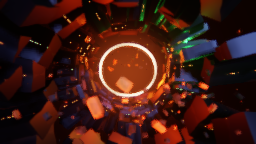
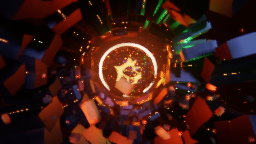
T1349b: a fractured sphere inside the ring, and life in the swarm
Owner: 'we also want a sphere inside of it … have that do things. Stuff looks
quite static. we want some shape shifting'. E75's shell kernel centred at the
origin (radius 3.3, reach 1.7) over an emissive heart (sphereGridKernel): the
tail lane opens the fragments, the beat kicks them and widens the fissures, the
heart pulses through the punch. Tier radii breathe per sector, the lit stations
chase along the bodies, the giants drift in depth, the shards stream faster.
Dawn claim: the core opens by more than a unit across the lanes while hulls,
giants and shards stay byte-equal. Digest 5c359b80e0c1f1b3, kernel count 129,
9.4 ms/frame headless at 720p.

diff --git a/src/examples/documents/crucible.ts b/src/examples/documents/crucible.ts
@@ -4,7 +4,8 @@ import { document, edge, expressionSlot, graph, node as buildNode, settings } fr
 import { SHOWCASE_BEAT, SHOWCASE_BEAT_FILE, SHOWCASE_BEAT_OFFSET_SECONDS } from "../build-showcase-beat.ts";
 import { FXAA_WGSL } from "../shaders/fxaa.wgsl.ts";
 import { RESONANCE_BLOOM_WGSL, RESONANCE_DOF_WGSL } from "../shaders/resonance.wgsl.ts";
-import { HALO_CAPACITY, HALO_COLUMNS, HALO_KERNEL, HALO_ROWS, INSTALLATION_ATTRIBUTES } from "../shaders/resonance-installations.ts";
+import { HALO_CAPACITY, HALO_COLUMNS, HALO_KERNEL, HALO_ROWS, INSTALLATION_ATTRIBUTES, sphereGridKernel } from "../shaders/resonance-installations.ts";
+import { SHELL_ATTRIBUTES, SHELL_CAPACITY, SHELL_COLUMNS, SHELL_KERNEL, SHELL_ROWS } from "../shaders/resonance-shell.ts";
 import {
   CRUCIBLE_HAZE_WGSL,
   SHARD_CAPACITY,
@@ -36,7 +37,8 @@ import {
  *   clip1 ─ band109x1 (Select `band109`) ─ beatrange1 (Range 0.38..0.60, clamp) ─ beat1 (Beat)
  *   clip1 ─ band968x1 (Select `band968`) ─ tailrange1 (Range 0.40..0.58, clamp) ─ tail1 (Tail 1.4 s)
  *
- * `beat1` flashes the halo, the seams on every hull and the shard embers; through `punch1`
+ * `beat1` flashes the halo, kicks the core's fragments, lights the strips and the shard
+ * embers; `tail1` opens the core; through `punch1`
  * (a 50 ms attack) it drives the point light that IS the halo's light and the haze, so the
  * frame punches on a hit rather than strobing (measured: the instant jump was 70% of the
  * frame's luminance in one frame); `tail1` pushes every orbit round, swells the
@@ -117,6 +119,18 @@ function crucibleDocumentBuild(): ProjectDocument {
     node("haloGrid", "pointGrid", [-2200, -200], { cols: HALO_COLUMNS, rows: HALO_ROWS, count: HALO_CAPACITY, sizeX: 2, sizeY: 2 }, { label: "halogrid1" }),
     node("haloForm", "pointKernel", [-1900, -200], { capacity: HALO_CAPACITY, attributes: INSTALLATION_ATTRIBUTES, kernel: HALO_KERNEL, radius: 4.5, tube: 0.12, height: 0, tilt: expressionSlot("sin(abstime * 0.09) * 0.3", 0.1), energy: expressionSlot(PUNCH, 0.1), breath: expressionSlot(TAIL, 0.4) }, { label: "haloform1" }),
     node("haloMesh", "geometry", [-1600, -200], { mode: "surface", material: "halomat1", tint: mappedTint }, { label: "halomesh1" }),
+    // ── The core: a fractured shell inside the ring, over an emissive heart ──
+    // E75's shell kernel (§T1141's lineage), centred at the origin: the Tail lane opens the
+    // fragments outward, the Beat lane kicks them, the fissures widen on the hit and show
+    // the heart, which pulses white-hot through the punch. This is the thing that SHIFTS.
+    node("coreMat", "materialPbr", [-1000, -450], { color: [0.5, 0.5, 0.56, 1], metallic: 0.85, roughness: 0.32 }, { label: "coremat1" }),
+    node("heartMat", "materialUnlit", [-700, -450], { color: [1, 1, 1, 1] }, { label: "heartmat1" }),
+    node("coreGrid", "pointGrid", [-2200, 2600], { cols: SHELL_COLUMNS, rows: SHELL_ROWS, count: SHELL_CAPACITY, sizeX: 2, sizeY: 2 }, { label: "coregrid1" }),
+    node("coreForm", "pointKernel", [-1900, 2600], { capacity: SHELL_CAPACITY, seed: 79, attributes: SHELL_ATTRIBUTES, kernel: SHELL_KERNEL, rotation: expressionSlot("abstime * 5", 0), radius: 3.3, spreadFloor: 0.05, reach: 1.7, height: 0, vibration: 0.01, fissure: expressionSlot(`0.02 + ${PUNCH} * 0.1`, 0.03), expansion: expressionSlot(`${TAIL} * 0.85`, 0.3), impulse: expressionSlot(BEAT, 0.1) }, { label: "coreform1" }),
+    node("coreMesh", "geometry", [-1600, 2600], { mode: "surface", material: "coremat1", tint: mappedTint }, { label: "coremesh1" }),
+    node("heartGrid", "pointGrid", [-2200, 2850], { cols: 65, rows: 32, count: 65 * 32, sizeX: 2, sizeY: 2 }, { label: "heartgrid1" }),
+    node("heartForm", "pointKernel", [-1900, 2850], { capacity: 65 * 32, attributes: INSTALLATION_ATTRIBUTES, kernel: sphereGridKernel(65, [1, 0.42, 0.12]), radius: 2.3, height: 0, energy: expressionSlot(`${PUNCH} * 2.5`, 0.3) }, { label: "heartform1" }),
+    node("heartMesh", "geometry", [-1600, 2850], { mode: "surface", material: "heartmat1", tint: mappedTint }, { label: "heartmesh1" }),
     // ── Post: depth-packed haze, bloom, FXAA ──
     node("shot", "render", [-700, 0], { scenes: "", camera: "cam1", lights: "halolight1 accentlight1 key1 rim1", background: [0, 0, 0, 1], environmentIntensity: 0, environmentTaps: 4, ambientColor: [0.5, 0.55, 0.7, 1], ambientIntensity: 0.008, antialias: "msaa", depthOutput: true }, { label: "shot1" }),
     node("opaqueAlpha", "reorder", [-400, 0], { outa: "one" }, { label: "opaquealpha1" }),
@@ -142,11 +156,13 @@ function crucibleDocumentBuild(): ProjectDocument {
     edge("clip-band109", ["clip", "out"], ["band109", "in"]), edge("band109-range", ["band109", "out"], ["beatRange", "in"]), edge("range-beat", ["beatRange", "out"], ["beat", "in"]), edge("beat-punch", ["beat", "out"], ["punch", "in"]),
     edge("clip-band968", ["clip", "out"], ["band968", "in"]), edge("band968-range", ["band968", "out"], ["tailRange", "in"]), edge("range-tail", ["tailRange", "out"], ["tail", "in"]),
     edge("halo-grid", ["haloGrid", "out"], ["haloForm", "in"]), edge("halo-mesh", ["haloForm", "out"], ["haloMesh", "points"]),
+    edge("core-grid", ["coreGrid", "out"], ["coreForm", "in"]), edge("core-mesh", ["coreForm", "out"], ["coreMesh", "points"]),
+    edge("heart-grid", ["heartGrid", "out"], ["heartForm", "in"]), edge("heart-mesh", ["heartForm", "out"], ["heartMesh", "points"]),
     edge("shot-alpha", ["shot", "out"], ["opaqueAlpha", "in1"]), edge("alpha-depth", ["opaqueAlpha", "out"], ["depthPack", "input"]), edge("depth-pack", ["shot", "depth"], ["depthPack", "mask"]),
     edge("pack-haze", ["depthPack", "out"], ["haze", "input"]), edge("haze-lens", ["haze", "out"], ["lens", "input"]), edge("lens-bloom", ["lens", "out"], ["bloom", "input"]), edge("bloom-blur", ["bloom", "out"], ["blur", "input"]),
     edge("blur-glow", ["blur", "out"], ["glow", "in1"]), edge("lens-glow", ["lens", "out"], ["glow", "in2"]), edge("glow-fxaa", ["glow", "out"], ["fxaa", "input"]), edge("fxaa-out", ["fxaa", "out"], ["out", "input"]),
   ];
-  const scenes: string[] = ["halomesh1"];
+  const scenes: string[] = ["halomesh1", "coremesh1", "heartmesh1"];
   // Eight swarms: six of the mid-field, two of foreground giants that cut the frame.
   // Three tiers. Inner: tangential modules on a tight ring just outside the halo. Mid:
   // radial teeth. Outer: foreground giants, nearest the lens, sparse. Each tier turns as
@@ -178,7 +194,7 @@ function crucibleDocumentBuild(): ProjectDocument {
     const y = 100 + (swarms.length + index) * 250;
     nodes.push(
       node(grid, "pointGrid", [-2200, y], { cols: SHARD_COLUMNS, rows: SHARD_ROWS * SHARD_COUNT, count: SHARD_CAPACITY, sizeX: 2, sizeY: 2 }, { label: `${id}grid1` }),
-      node(form, "pointKernel", [-1900, y], { capacity: SHARD_CAPACITY, attributes: INSTALLATION_ATTRIBUTES, kernel: SHARD_KERNEL, slot: index, rate: index === 0 ? 0.05 : 0.035, inner: 9, outer: 22 + index * 5, size: index === 0 ? 0.12 : 0.2, burst: expressionSlot(BEAT, 0.1), highs: expressionSlot(HIGHS, 0) }, { label: `${id}form1` }),
+      node(form, "pointKernel", [-1900, y], { capacity: SHARD_CAPACITY, attributes: INSTALLATION_ATTRIBUTES, kernel: SHARD_KERNEL, slot: index, rate: index === 0 ? 0.07 : 0.05, inner: 9.5, outer: 22 + index * 5, size: index === 0 ? 0.12 : 0.2, burst: expressionSlot(BEAT, 0.1), highs: expressionSlot(HIGHS, 0) }, { label: `${id}form1` }),
       node(mesh, "geometry", [-1600, y], { mode: "surface", material: "shardpaint1", tint: mappedTint }, { label: `${id}mesh1` }),
     );
     edges.push(edge(`${id}-grid`, [grid, "out"], [form, "in"]), edge(`${id}-mesh`, [form, "out"], [mesh, "points"]));

diff --git a/src/examples/crucible-claims.gpu.test.ts b/src/examples/crucible-claims.gpu.test.ts
@@ -25,7 +25,7 @@ beforeAll(async () => {
 const WIDTH = 320;
 const HEIGHT = 180;
 
-const PROBED = ["swarm0Form", "swarm6Form", "shards0Form", "haloForm"] as const;
+const PROBED = ["swarm0Form", "swarm6Form", "shards0Form", "haloForm", "coreForm"] as const;
 const FIXED = ["swarm0Form", "swarm6Form", "shards0Form"] as const;
 
 async function render(lanes: { beat?: number; tail?: number; light?: number }, probe = false) {
@@ -74,7 +74,7 @@ function mean(pixels: Uint8ClampedArray | Uint8Array, rect: { x0: number; x1: nu
 }
 
 describe("E79 Crucible — the lanes reach the picture (T1349b)", () => {
-  it("NO lane moves a point: hull, giant, shard and halo positions are byte-equal at lanes 0 and 1 (the teleport the owner saw)", async (ctx) => {
+  it("no lane moves a hull, giant or shard (the teleport the owner saw); the halo swells a little and the core is the one thing that opens", async (ctx) => {
     if (unavailable) { ctx.skip(); return; }
     // Motion is structural (absTime); the audio lights things. A lane in a position term
     // makes geometry jump on every hit — the shard stream's phase carried one and the
@@ -88,6 +88,11 @@ describe("E79 Crucible — the lanes reach the picture (T1349b)", () => {
     for (let index = 0; index < rest.positions!["haloForm"]!.length; index += 1) swell = Math.max(swell, Math.abs(hit.positions!["haloForm"]![index]! - rest.positions!["haloForm"]![index]!));
     expect(swell).toBeGreaterThan(0.02);
     expect(swell).toBeLessThan(0.05);
+    // The CORE is the one body built to move with the music: the Tail lane opens its
+    // fragments, the Beat lane kicks them. More than a unit of travel on the outer cells.
+    let opened = 0;
+    for (let index = 0; index < rest.positions!["coreForm"]!.length; index += 1) opened = Math.max(opened, Math.abs(hit.positions!["coreForm"]![index]! - rest.positions!["coreForm"]![index]!));
+    expect(opened).toBeGreaterThan(1);
   }, 120_000);
 
   it("the beat lane at 1 makes the halo band brighter and whiter than at 0", async (ctx) => {

diff --git a/src/examples/shaders/crucible.ts b/src/examples/shaders/crucible.ts
@@ -114,8 +114,9 @@ fn process(p:Point,ctx:PointCtx)->Point{
   // slowly as one — no tumble, no per-body jitter in time.
   let sector=floor(h[3]*ctx.params.sectors);
   let angle=(sector+0.5)/ctx.params.sectors*6.283185307+(h[1]-0.5)*0.35+ctx.absTime*ctx.params.speed*6.283185307;
-  let radius=mix(ctx.params.near,ctx.params.far,h[0]);
-  let depthAlong=mix(ctx.params.depthNear,ctx.params.depthFar,h[2])+sin(ctx.absTime*0.04+sector)*0.25;
+  // Each sector's radius breathes slowly and the giants drift in depth: life without jitter.
+  let radius=mix(ctx.params.near,ctx.params.far,h[0])+sin(ctx.absTime*0.045+sector*0.7)*0.7;
+  let depthAlong=mix(ctx.params.depthNear,ctx.params.depthFar,h[2])+sin(ctx.absTime*0.03+sector)*select(0.3,1.2,ctx.params.tier>1.5);
   let centre=vec3f(cos(angle)*radius,sin(angle)*radius,depthAlong);
   let radialDir=vec3f(cos(angle),sin(angle),0.0);
   let tangentDir=vec3f(-sin(angle),cos(angle),0.0);
@@ -134,7 +135,8 @@ fn process(p:Point,ctx:PointCtx)->Point{
   // row to row, so the line is continuous — a per-row dot at rib borders read as a dotted
   // ladder on the coarse grid. The Beat lane lights the same line as an ember.
   let atRib=smoothstep(0.42,0.5,abs(fract(v*ribs)-0.5));
-  let lit=broad*step(0.5,fract(floor(v*ribs)*0.5+h[9]));
+  // The lit stations chase along the body, one station every ~8 s.
+  let lit=broad*step(0.5,fract(floor(v*ribs+ctx.absTime*0.12)*0.5+h[9]));
   let onStrip=lit>0.5 && column%9u==4u && axial>=3u && axial<${SWARM_ROWS - 4}u;
   q.seam=select(0.0,1.0,onStrip);
   let strip=lit*(1.0-smoothstep(0.06,0.12,abs(along-0.5)));

diff --git a/src/nodes/definitions/point-kernel-params.test.ts b/src/nodes/definitions/point-kernel-params.test.ts
@@ -502,7 +502,7 @@ const FRAME_ZERO_DIGESTS: Readonly<Record<string, string>> = {
   "E78-Aether-Orrery.loom.json": "2a989d66bce14a28",
   // T1349b — E79 Crucible (second cut): one halo torus, eight swarm grids of 24 hulls each
   // (one grid, many bodies), and two shard streams.
-  "E79-Crucible.loom.json": "1dd10818f4efb254",
+  "E79-Crucible.loom.json": "5c359b80e0c1f1b3",
 };
 
 const POINT_KERNEL_TYPES = new Set(["pointKernel", "pointKernelAdvanced"]);
@@ -526,8 +526,9 @@ describe("T900 — every shipped kernel resolves byte-equal at frame 0", () => {
   it("covers exactly the looms that carry kernels — a shrinking gate is a passing gate", () => {
     expect([...digests.keys()].sort()).toEqual(Object.keys(FRAME_ZERO_DIGESTS).sort());
     // 63 existing kernels, 51 family kernels, two E75 core-occlusion kernels, and E79's
-    // eleven (T1349b, second cut): the halo, eight swarm grids, two shard streams.
-    expect(kernelCount).toBe(127);
+    // thirteen (T1349b): the halo, eight swarm grids, two shard streams, the core shell and
+    // its heart.
+    expect(kernelCount).toBe(129);
   });
 
   it.each(Object.keys(FRAME_ZERO_DIGESTS))("%s is unchanged at frame 0", (fileName) => {

diff --git a/examples/E79-Crucible.md b/examples/E79-Crucible.md
@@ -1,6 +1,9 @@
 # E79 — Crucible
 
-A white-hot ring at the centre of a black void, seen down a tunnel of machinery: three tiers
+A white-hot ring at the centre of a black void with a fractured sphere inside it — a dark
+metallic shell of fragments (E75's shell kernel, centred here) over a white-hot heart: the tail
+lane opens the fragments, every hit kicks them and widens the fissures, and the heart pulses
+through the cracks. Around it, seen down a tunnel of machinery: three tiers
 of dark ribbed modules around the ring — an inner ring of tangential modules, a wide field of
 radial teeth, foreground giants nearest the lens — about a hundred and ninety in all, snapped
 to angular sectors and turning slowly as tiers, with amber and green strips at their stations.
@@ -18,8 +21,9 @@ clip1(audioFileIn) ─ band109x1(valueSelect) ─ beatrange1(valueRange) ─ bea
 clip1(audioFileIn) ─ band968x1(valueSelect) ─ tailrange1(valueRange) ─ tail1(valueTail)
 ```
 
-`beat1` flashes the halo from ember to white, lights the rib seams on every hull and throws a
-shard wave; through `punch1` (a 50 ms attack) it drives `halolight1` (8 to 118, the light every
+`beat1` flashes the halo from ember to white, kicks the core's fragments and lights the strips
+on every hull; `tail1` opens the core and breathes the strips and the green accent; through
+`punch1` (a 50 ms attack) it drives `halolight1` (8 to 118, the light every
 hull face turned toward the ring receives) and the haze flare, so a hit punches rather than
 strobes. `tail1` pushes every orbit round, swells the tube, breathes the green
 windows and the accent light. The four Range bounds are measured on the shipped clip —
@@ -30,8 +34,9 @@ retunes those four numbers and nothing else.
 The hulls are eight point grids of 24 bodies each — one grid, many bodies, the first and last
 row of each body collapsed to a point so neighbours never join, two rows in each end plane so
 the caps are flat faces — with hard box corners from duplicated corner columns, ribs across the
-length, a channel down each broad face and lit strips at the stations. Nothing tumbles: each
-tier turns as one, the shards drift, the ring's heat travels, the camera swoops, all on absolute
-time, so silence still moves; the audio adds on top.
+length, a channel down each broad face and lit strips at the stations. Nothing tumbles: each tier
+turns as one and breathes its radius, the lit stations chase along the bodies, the giants drift
+in depth, the shards stream, the ring's heat travels, the camera swoops — all on absolute time,
+so silence still moves; the audio adds on top, and the core is the one body that moves with it.
 
 Visual control: [E79 reference](references/E79-Crucible-reference.png).

diff --git a/examples/README.md b/examples/README.md
@@ -99,7 +99,7 @@ happened:
 | [E76 Verdant Lotus](./E76-Verdant-Lotus.md) | Crystalline lotus installation in a circular projection hall: luminous petals, suspended core, wet reflections, haze, shafts and audio-driven emerald energy. |
 | [E77 Ember Monoliths](./E77-Ember-Monoliths.md) | Ring of fractured stone monoliths around a white-hot aperture, with ember seams, monumental wall projections, wet floor reflections and audio-driven firelight. |
 | [E78 Aether Orrery](./E78-Aether-Orrery.md) | Suspended orbital sculpture around a violet energy sphere, with independently turning rings, cosmic wall panels, floor reflections and volumetric light. |
-| [E79 Crucible](./E79-Crucible.md) | A white-hot ring seen down a tunnel of ~190 ribbed machine modules in three slowly turning tiers, shards drifting past, red haze, a hot back rim and a green accent, a swooping lens — driven by two SPECTRUM rows through Select → Range → Beat / Tail (T1347b/T1348b): the 109 Hz row punches the ring, its light and every seam, the 968 Hz row breathes the strips. |
+| [E79 Crucible](./E79-Crucible.md) | A white-hot ring with a fractured sphere inside it — a metallic shell that opens on the tail lane and cracks on every hit over a pulsing heart — seen down a tunnel of ~190 ribbed machine modules in three breathing tiers, shards streaming past, red haze, a hot back rim and a green accent, a swooping lens. Driven by two SPECTRUM rows through Select → Range → Beat / Tail (T1347b/T1348b). |
 
 ## Running them
 
